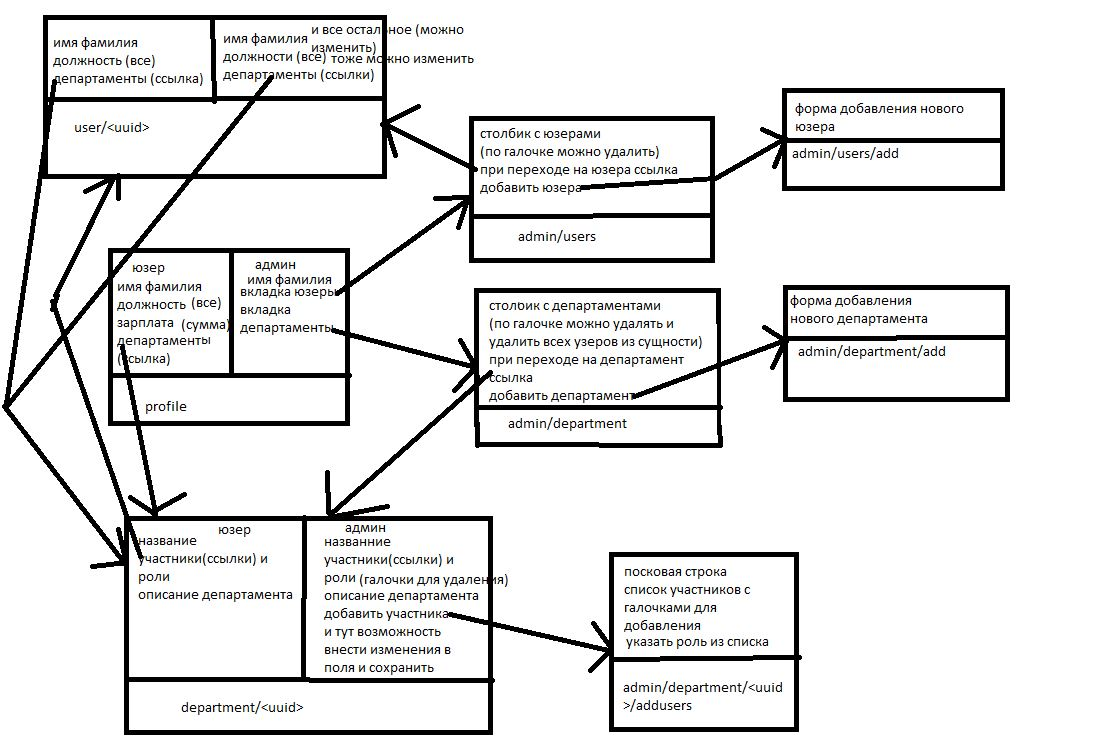
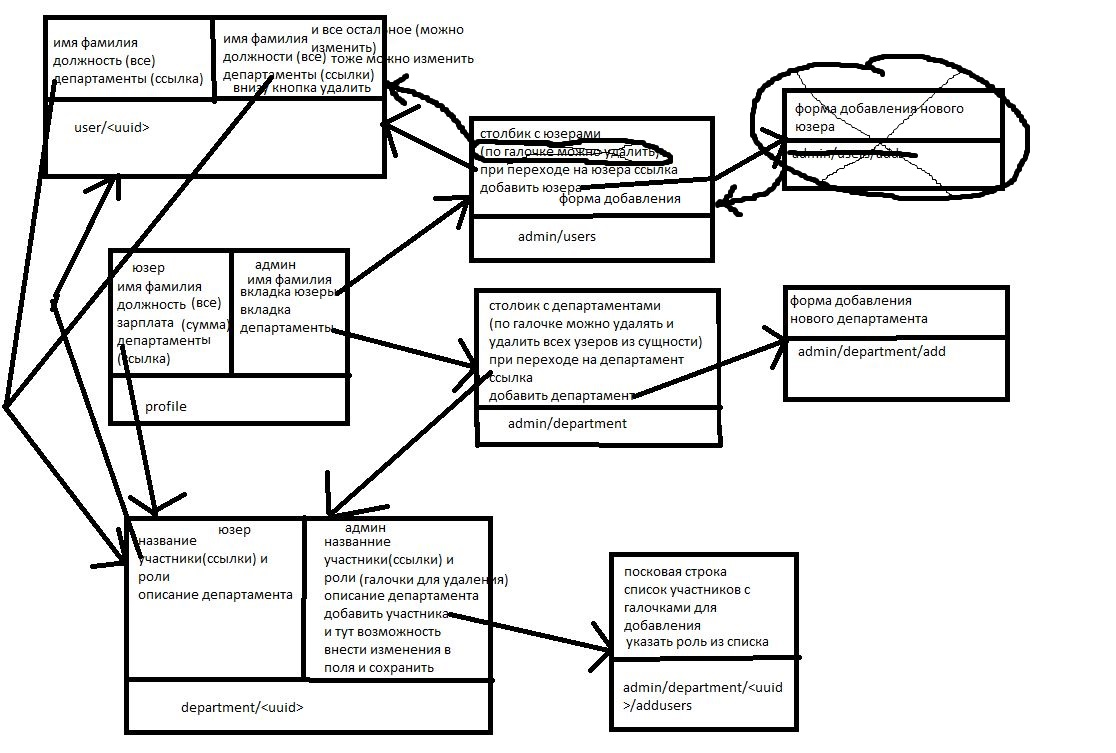
admin panel of user was completed

diff --git a/src/templates/ausers.html b/src/templates/ausers.html
@@ -1,0 +1,59 @@
+{% extends 'base.html' %}
+{% block title %}
+Users
+{% endblock %}
+{% block content %}
+<div class="container-fluid">
+    <div class="row">
+        <div class="col-8">
+            <div class="position-relative overflow-hidden p-3 p-md-5 m-md-3 text-center bg-dark">
+                <table class="table table-hover table-dark">
+                    <thead>
+                        <tr>
+                            <th scope="col">#</th>
+                            <th scope="col">Username</th>
+                            <th scope="col">Name</th>
+                            <th scope="col">Surname</th>
+                            <th scope="col">E-mail</th>
+                            <th scope="col">Admin status</th>
+                        </tr>
+                    </thead>
+                    <tbody>
+                        {% for i in users %}
+                            <tr>
+                                <th scope="row">{{ i.id }}</th>
+                                <td>{{ i.username }}</td>
+                                <td>{{ i.name }}</td>
+                                <td>{{ i.surname }}</td>
+                                <td>{{ i.email_address }}</td>
+                                <td>{% if i.is_admin %}
+                                    Yes
+                                    {% else %}
+                                    No
+                                    {% endif %}
+                                </td>
+                            </tr>
+                        {% endfor %}
+                    </tbody>
+                </table>
+            </div>
+        </div>
+        <div class="col-4">
+            <div class="position-relative overflow-hidden p-md-5 m-md-3 text-center bg-dark">
+                <h1>Register a new user</h1>
+                <form action="{{ url_for('ausers') }}" method="POST">
+                <input type="text" name="username" placeholder="Enter username" required>
+                <input type="password" name="password" placeholder="Enter password" required>
+                <input type="text" name="name" placeholder="Enter name" required>
+                <input type="text" name="surname" placeholder="Enter surname" required>
+                <input type="email" name="email_address" placeholder="Enter email" required>
+                <br>
+                <input type="checkbox" name="is_admin" value="True">
+                <label for="admin">Admin</label><br>
+                <input type="submit" value="Submit">
+                </form>
+            </div>
+        </div>
+    </div>
+</div>
+{% endblock %}

diff --git a/src/templates/login.html b/src/templates/login.html
@@ -25,5 +25,8 @@
         </label>
         <button>Submit</button>
     </form>
+    <script src="https://code.jquery.com/jquery-3.2.1.slim.min.js" integrity="sha384-KJ3o2DKtIkvYIK3UENzmM7KCkRr/rE9/Qpg6aAZGJwFDMVNA/GpGFF93hXpG5KkN" crossorigin="anonymous"></script>
+    <script src="https://cdnjs.cloudflare.com/ajax/libs/popper.js/1.12.9/umd/popper.min.js" integrity="sha384-ApNbgh9B+Y1QKtv3Rn7W3mgPxhU9K/ScQsAP7hUibX39j7fakFPskvXusvfa0b4Q" crossorigin="anonymous"></script>
+    <script src="https://maxcdn.bootstrapcdn.com/bootstrap/4.0.0/js/bootstrap.min.js" integrity="sha384-JZR6Spejh4U02d8jOt6vLEHfe/JQGiRRSQQxSfFWpi1MquVdAyjUar5+76PVCmYl" crossorigin="anonymous"></script>
 </body>
 </html>

diff --git a/src/templates/profile.html b/src/templates/profile.html
@@ -11,7 +11,7 @@
     </div>
     <br>
     <div class="position-relative overflow-hidden p-3 p-md-5 m-md-3 text-center bg-dark">
-        <a href="#" class="btn btn-primary btn-lg btn-block">Users</a>
+        <a href="{{ url_for('ausers') }}" class="btn btn-primary btn-lg btn-block">Users</a>
         <a href="#" class="btn btn-secondary btn-lg btn-block">Departments</a>
     </div>
 {% else %}

diff --git a/src/resources/ausers.py b/src/resources/ausers.py
@@ -1,0 +1,41 @@
+from flask_restful import Resource
+from src.token import token_required, user_return
+from flask import make_response, render_template, request, flash, redirect, url_for
+from src.database.models import User
+from src import db
+from marshmallow import ValidationError
+from sqlalchemy.exc import IntegrityError
+from src.schemas.user import UserSchema
+
+class Ausers(Resource):
+    @token_required
+    def get(self):
+        current_user = user_return()
+        if current_user.is_admin:
+            users = db.session.query(User).all()
+            return make_response(render_template("ausers.html",auth=True, user=current_user, users=users), 200)
+        else:
+            flash("No permission for this page",category='danger')
+            return redirect(url_for('main'))
+    @token_required
+    def post(self):
+        current_user = user_return()
+        if current_user.is_admin:
+            user_schema = UserSchema()
+            try:
+                user = user_schema.load(request.form.to_dict(), session=db.session)
+            except ValidationError as e:
+                flash(e.normalized_messages()['_schema'][0],category='danger')
+                return redirect(url_for('ausers'))
+            else:
+                try:
+                    user.save_to_db()
+                except IntegrityError:
+                    flash("Such user exists",category='warning')
+                    return redirect(url_for('ausers'))
+                else:
+                    flash('Account created successfully!',category='success')
+                    return redirect(url_for('ausers'))
+        else:
+            flash("No permission for this method",category='danger')
+            return redirect(url_for('main'))

diff --git a/src/routes.py b/src/routes.py
@@ -2,15 +2,12 @@ from src import api
 from src.resources.main import Main
 from src.resources.about import About
 from src.resources.login import Login, Logout
-#from src.resources.signup import Signup
-#from src.resources.user import UserRes
 from src.resources.profile import Profile
+from src.resources.ausers import Ausers
 
 api.add_resource(Main, '/', '/main', strict_slashes=False)
 api.add_resource(About, '/about', strict_slashes=False)
 api.add_resource(Login, '/login', strict_slashes=False)
 api.add_resource(Logout, '/logout', strict_slashes=False)
 api.add_resource(Profile, '/profile', strict_slashes=False)
-
-#api.add_resource(Signup, '/signup', strict_slashes=False)
-#api.add_resource(UserRes, '/user/<uuid>', strict_slashes=False)
+api.add_resource(Ausers, '/admin/users', strict_slashes=False)

diff --git a/wsgi.py b/wsgi.py
@@ -5,6 +5,7 @@ from src import app
 # Добавить корректные коды респонсов только в return
 # подписать везде комментарии
 # автотесты
+# добавить иконку
 
 
 if __name__ == "__main__":
